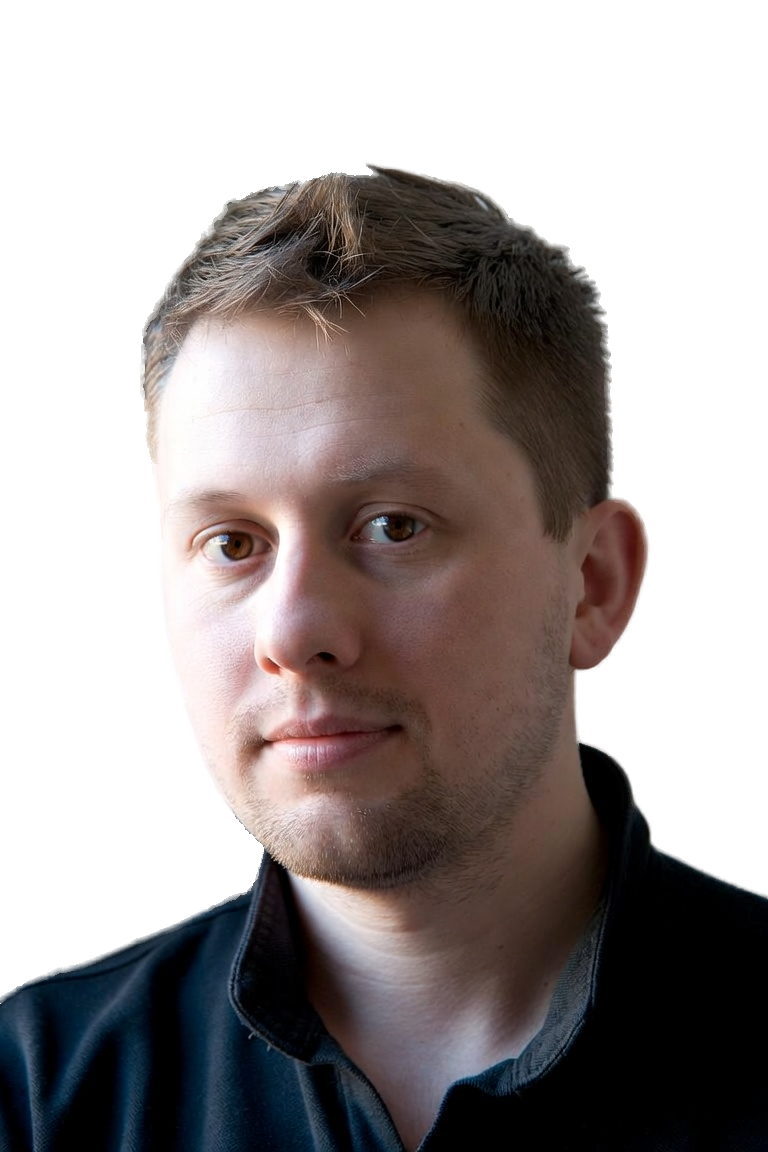
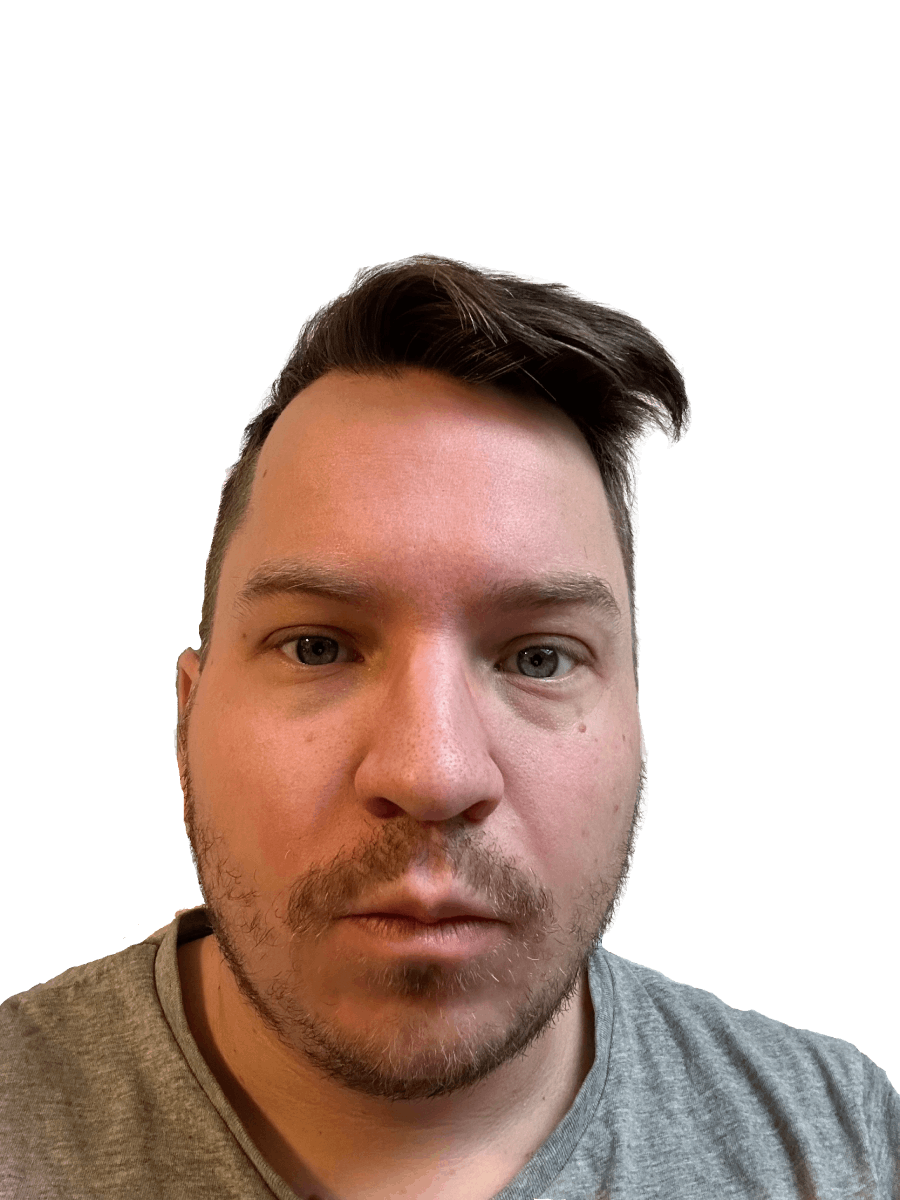
Gjorde en ny porträtt bild på mig själv

diff --git a/om-mig.html b/om-mig.html
@@ -24,8 +24,8 @@
         <!-- Presentation -->
         <section class="om-mig">
             <figure>
-                <img src="images/portrait.png" alt="AI genererat porträtt av en man" class="portratt">
-                <figcaption>Bilden är AI-genererad</figcaption>
+                <img src="images/portrait.png" alt="Bild på mig" class="portratt">
+                <figcaption>Det här är jag</figcaption>
             </figure>
             <p>Jag är en 33 åring från västkusten som har gett mig in i en helt ny värld med programmering! Det är väldigt roligt och lärorikt men gillar inte att synas på nätet på bild. Jag gillar att odla och att resa när jag är ledig.</p>
         </section>
